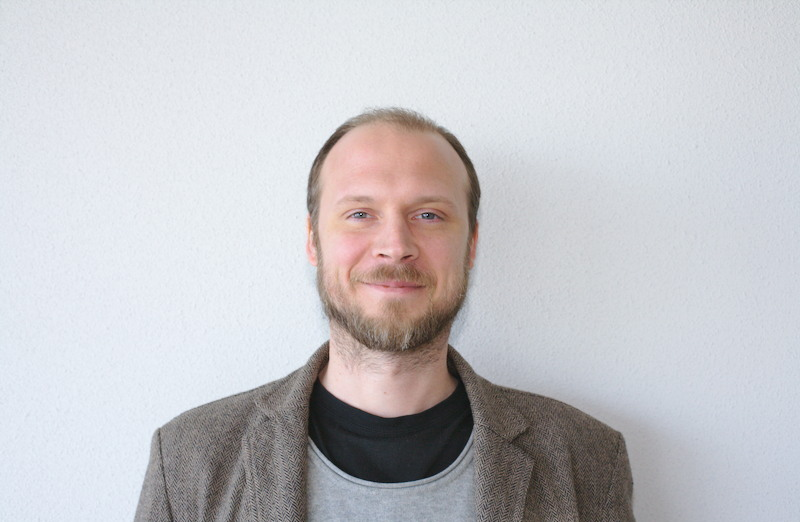
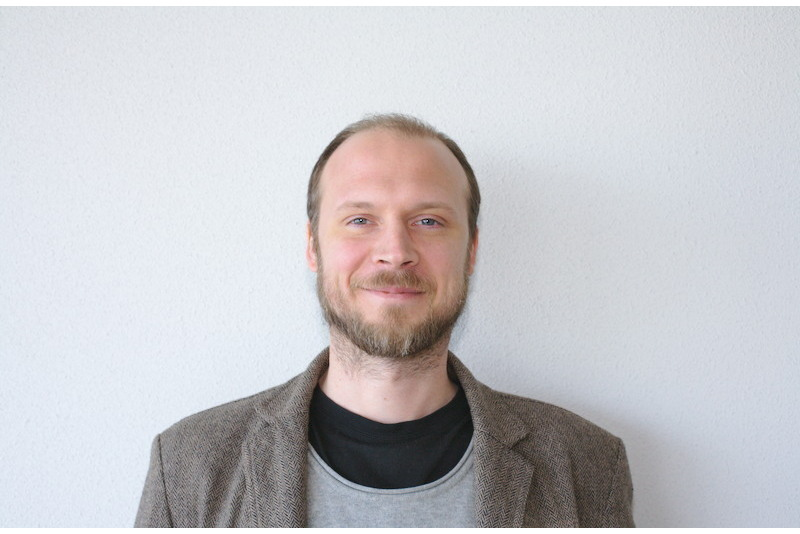
pub

diff --git a/index.html b/index.html
@@ -113,10 +113,10 @@ Madrid Spain
     <div id="myCarousel" class="carousel slide" data-ride="carousel">
 		<!-- Carousel items -->
 		<div class="carousel-inner">
-		<div class="active item"><img src="img/foto_alex3.jpg" width='500px' class="img-rounded"></div>
-		<div class="item"><img src="img/dbpd1.jpg" width='500px' class="img-rounded"></div>
-		<div class="item"><img src="img/cicloides.jpg" width='500px' class="img-rounded"></div>
-		<div class="item"><img src="img/foto_alex.jpg" width='500px' class="img-rounded"></div>
+		<div class="active item"><img src="img/foto_alex3.jpg" width='500px' height='326px' class="img-rounded"></div>
+		<div class="item"><img src="img/dbpd1.jpg" width='500px' height='326px' class="img-rounded"></div>
+		<div class="item"><img src="img/cicloides.jpg" width='500px' height='326px' class="img-rounded"></div>
+		<div class="item"><img src="img/foto_alex.jpg" width='500px' height='326px' class="img-rounded"></div>
 		</div>
 		<!-- Carousel nav -->
 		<a class="carousel-control left" href="#myCarousel" data-slide="prev"><span class="glyphicon glyphicon-chevron-left"></a>
@@ -163,6 +163,7 @@ Madrid Spain
 <h3>Publications</h3>
 
 <ol>
+<li> F. J. Escribano, J. B. Sáez-Landete and A. Wagemakers. Optimization of Chaos-based Coded Modulations for Compensation of Amplifier Nonlinearities. Electronic letters, accepted for publication, 2016. </li>
 <li>A. Daza, A. Wagemakers, B. Georgeot, D. Guéry-Odelin, and M. A. F. Sanjuán. Basin entropy: a new tool to analyze uncertainty in dynamical systems. Scientific Reports, 6:31416, 2016.</li>    
 <li>A. Daza, A. Wagemakers, and M. A. F. Sanjuán. Wada property in systems with delay, Commun in Nonlinear Sci and Numer Simulat, 43:220-226, 2017.</li>    
 <li>F. Escribano, G. Kaddoum, A. Wagemakers and P. Giard. Design of a New Differential Chaos-Shift-Keying System For Continuous Mobility, IEEE Transactions on Communications, 64:2066-2078, 2016.</li>	
